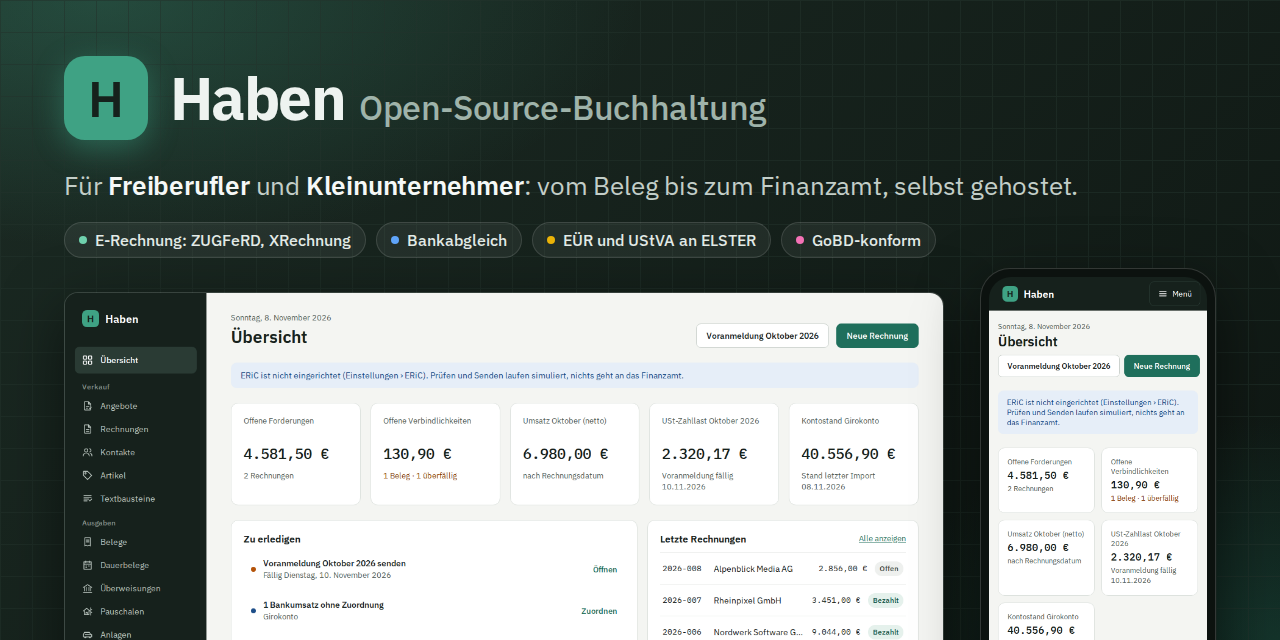
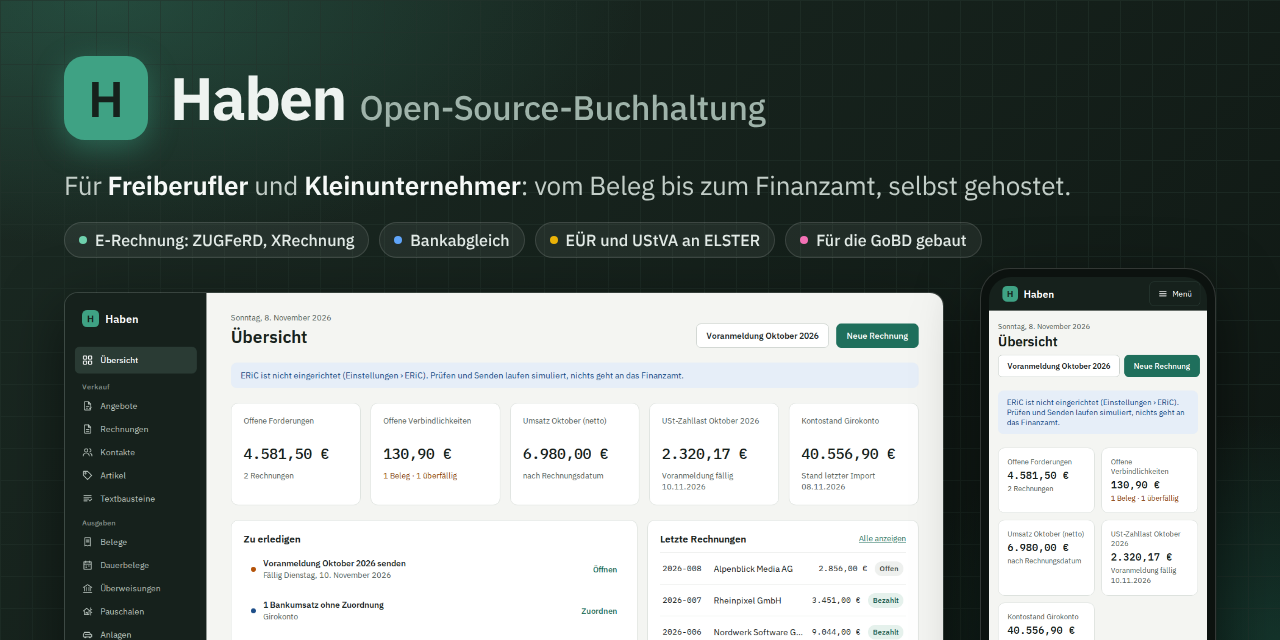
docs: „GoBD-konform“ in Vorschaubild und Seitenbeschreibungen ersetzen
Wie im README seit #604: Haben ist für die GoBD gebaut, sagt aber nicht
pauschal „GoBD-konform“, weil zur Ordnungsmäßigkeit auch Betrieb und
Verfahrensdokumentation gehören.

- Vorschaubild: Chip „Für die GoBD gebaut“, PNG neu gerendert
- kasse.md: „Ein Kassenbuch, für die GoBD gebaut: …“
- rechnungen.md: „… festgeschrieben und versiegelt …“

Refs #604

Claude-Session: https://claude.ai/code/session_01Y3rdfbt18jefTkkkKRFnP7

diff --git a/scripts/social-preview/social-preview.html b/scripts/social-preview/social-preview.html
@@ -72,7 +72,7 @@
     <span class="chip"><i style="background:#6fd1ad"></i>E-Rechnung: ZUGFeRD, XRechnung</span>
     <span class="chip"><i style="background:#60a5fa"></i>Bankabgleich</span>
     <span class="chip"><i style="background:#eab308"></i>EÜR und UStVA an ELSTER</span>
-    <span class="chip"><i style="background:#f472b6"></i>GoBD-konform</span>
+    <span class="chip"><i style="background:#f472b6"></i>Für die GoBD gebaut</span>
   </div>
   <div class="shot"><img src="../../docs/screenshot-uebersicht.png" alt=""></div>
   <div class="phone"><img src="../../docs/screenshot-mobil.png" alt=""></div>

diff --git a/docs/rechnungen.md b/docs/rechnungen.md
@@ -2,7 +2,7 @@
 title: "E-Rechnung schreiben: ZUGFeRD und XRechnung"
 description: >-
   Ausgangsrechnungen als E-Rechnung schreiben: ZUGFeRD (PDF/A-3, EN 16931) oder XRechnung 3.0 in
-  CII oder UBL, GoBD-konform festgeschrieben, per Mail versendet.
+  CII oder UBL, festgeschrieben und versiegelt, per Mail versendet.
 ---
 
 # Rechnungen und E-Rechnung

diff --git a/docs/kasse.md b/docs/kasse.md
@@ -1,7 +1,7 @@
 ---
 title: "Kassenbuch für Bargeld führen"
 description: >-
-  Ein GoBD-konformes Kassenbuch: jede Bargeldbewegung mit fortlaufender Nummer, Datum, Betrag und
+  Ein Kassenbuch, für die GoBD gebaut: jede Bargeldbewegung mit fortlaufender Nummer, Datum, Betrag und
   Bestand, gebucht nach SKR03 oder SKR04.
 ---
 
